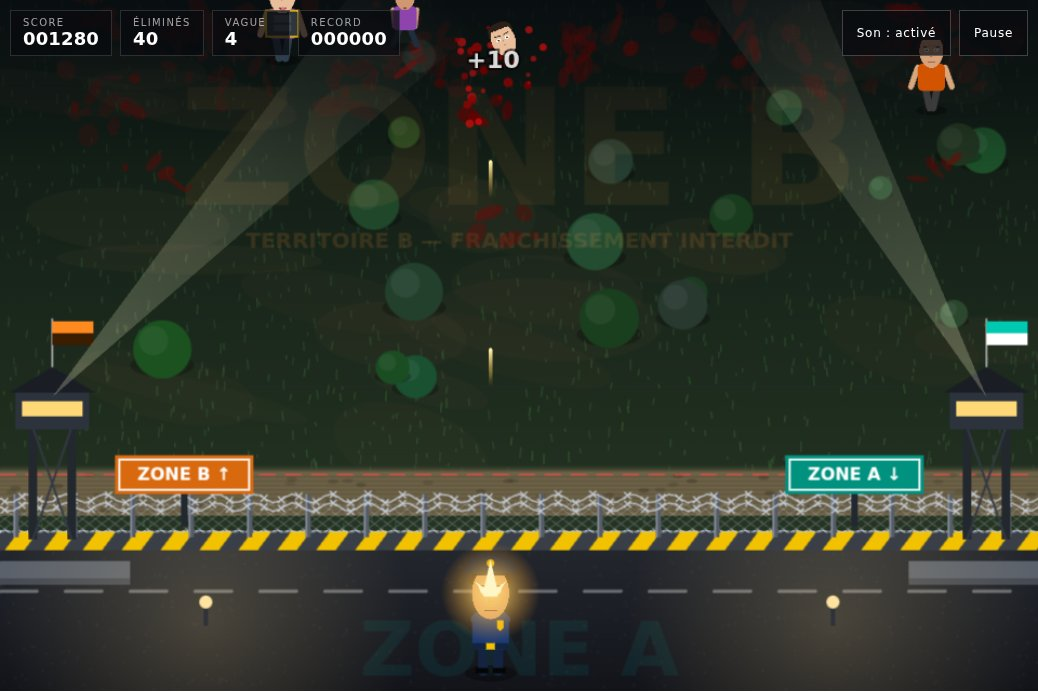
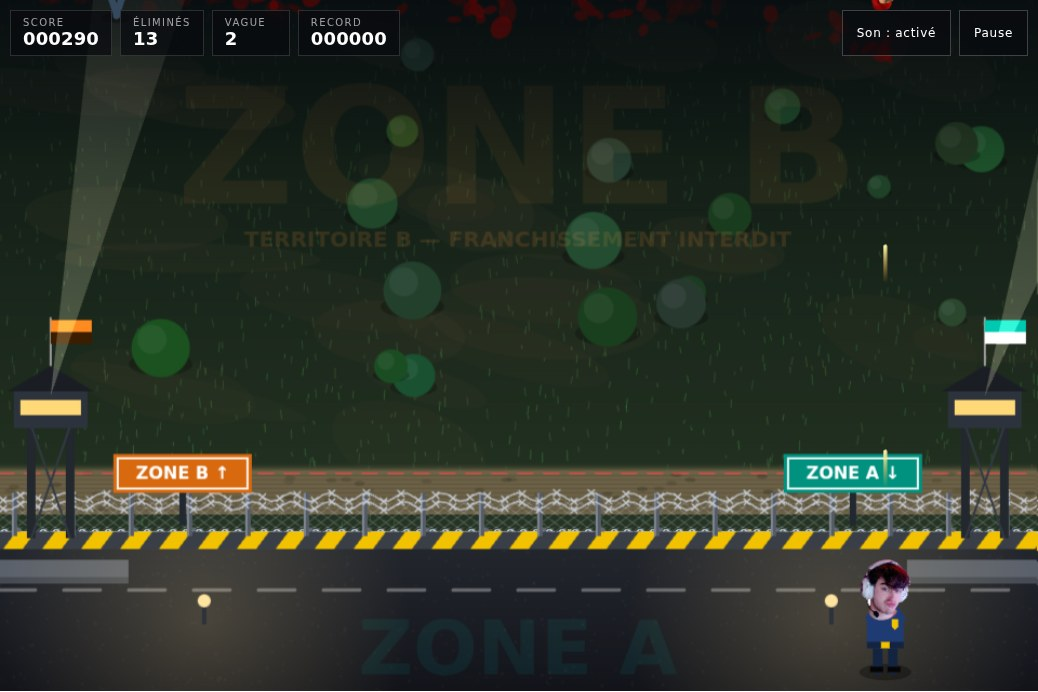
Ajout des têtes détourées des intrus et des policiers
Têtes des intrus (4) et des policiers (3) en PNG transparents, tirage
aléatoire du policier à chaque chargement, aperçu du jeu mis à jour.

Claude-Session: https://claude.ai/code/session_01RBeWiP81LNqQ8zDJCqdHNT

diff --git a/site-potes/js/data.js b/site-potes/js/data.js
@@ -17,7 +17,11 @@ export const HEADS = [
   "assets/heads/tete-4.png",
 ];
 
-export const POLICE = [];
+export const POLICE = [
+  "assets/police/policier-1.png",
+  "assets/police/policier-2.png",
+  "assets/police/policier-3.png",
+];
 
 export const BACKGROUNDS = [
   { id: "ocean", label: "Océan", a: "#0f4c75", b: "#3282b8" },
